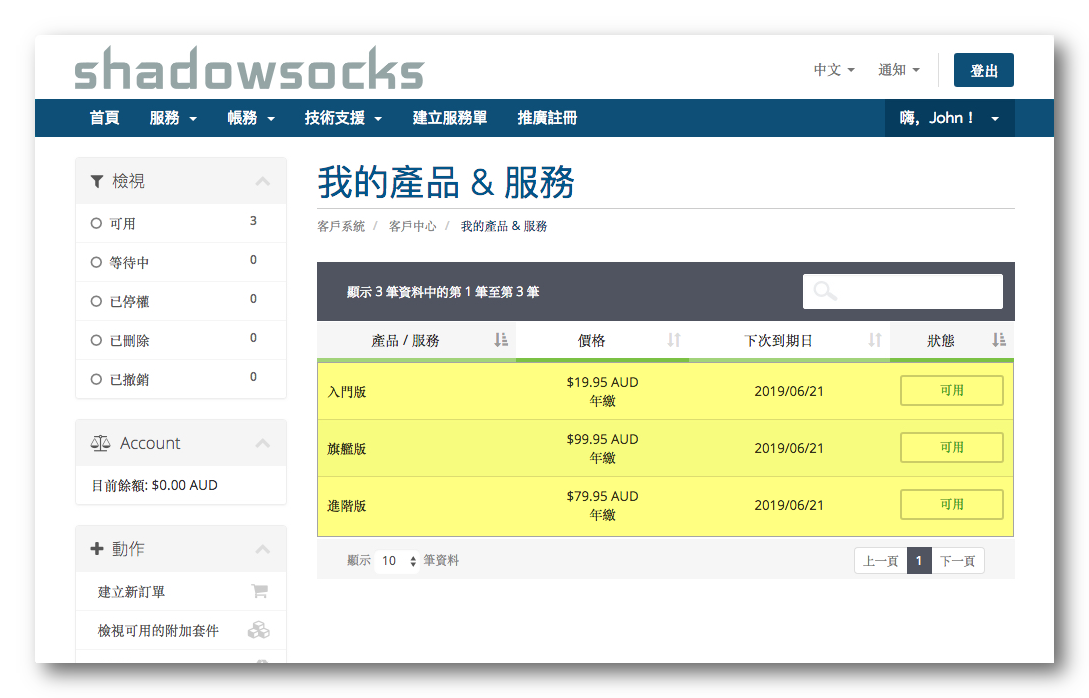
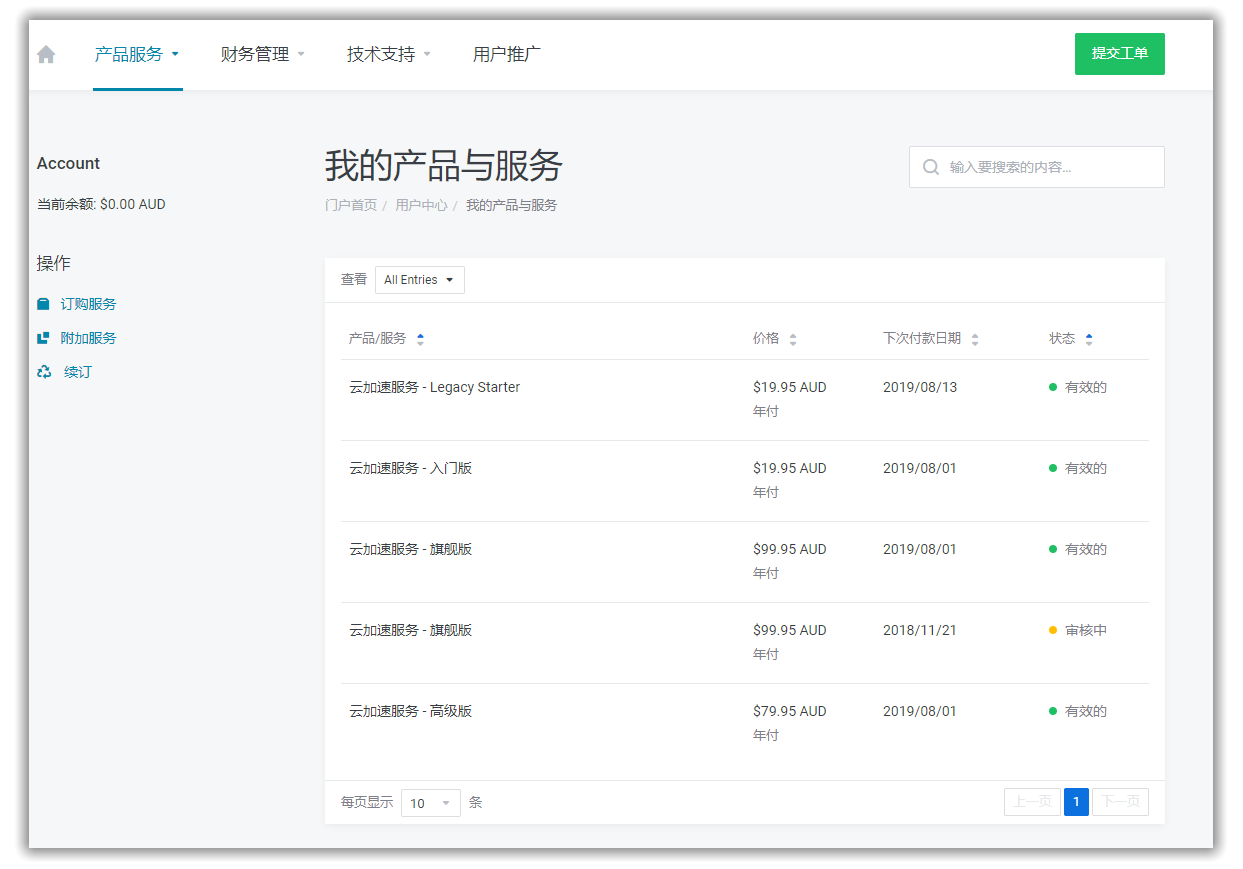
update

diff --git a/1-introduction-of-client-portal.md b/1-introduction-of-client-portal.md
@@ -30,14 +30,16 @@
 * 打开 [https://shadowsocks.nu/](https://shadowsocks.nu/)并点击 [Order Now](https://portal.shadowsocks.nu/link.php?id=5)，即可查看我们的产品列表。  
 ![产品列表](files/images/int-product-list.png)
 
-* 选择想要购买的服务后点击对应的 **立即购买** ，进入订单概观, 我们以旗舰版爲例，选择付款周期后点击继续加入购物车   
+* 选择想要购买的服务后点击对应的 **立即订购** ，进入订单概观, 我们以旗舰版为例，选择付款周期后点击继续加入购物车   
 ![订单概览](files/images/int-invoice-preview.png)  
 
-* 进入结账界面，点击 "Checkout"。   
+* 进入结账界面: 
+1. 可以 **确认您的订单信息** ，如果您持有优惠码，也可以在这个页面输入
+2. 然后在下面新建账户部分 **填写必要的账户信息** 后创建新账户并与您的服务关联
+3. 选择您方便的付款方式
+4. **阅读并勾选同意我们的服务条款** 后点击右侧结账按钮前往付款页面
+5. 支付账单后您的服务将会自动开通
 ![Checkout](files/images/int-checkout.png)
-
-* 填写完信息后 > 单击 “完成订购”，支付账单。    
-![完成订购](files/images/int-compelte-order.png)  
 
 **您可以选择希望使用的付款方式，我们当前提供的支付方式有**
 
@@ -65,7 +67,7 @@
 - 单击 “服务” > "我的服务" > 选择 "你可用的产品/服务"。
 - 查看你的节点信息。
 
-![单击 "服务" > "我的服务"](files/images/int-portal-myservices.png)  
+![单击 "产品服务" > "我的服务"](files/images/int-portal-myservices.png)  
 
 ![选择 "你可用的产品/服务"](files/images/int-portal-servicespage.png)  
 
